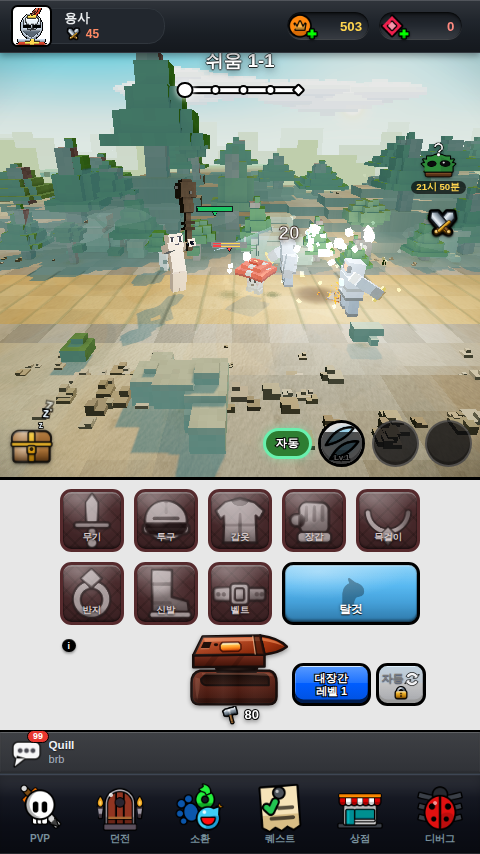
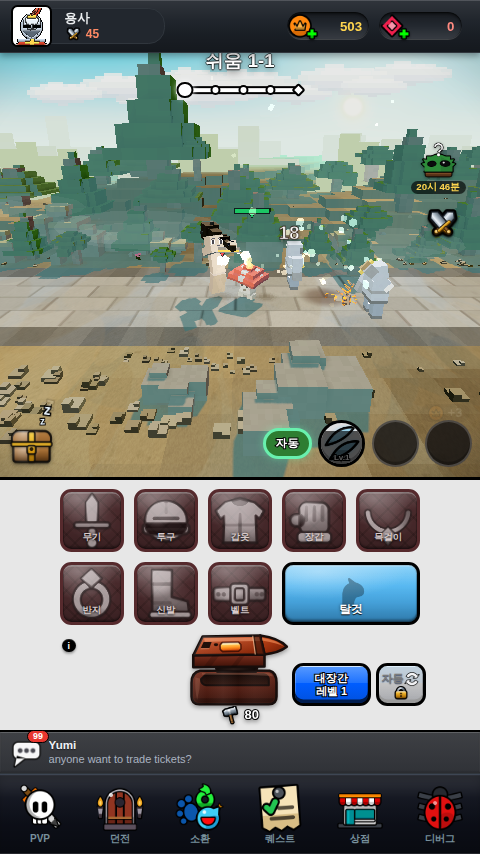
도로 2차 — 회색 석재 포석으로 전환, 대비 8.7% → 25.3%
1차 도로는 반려됐다(메인 세션 캡처 판정): 노면·연석·흙이 전부 같은 밝은 베이지라
'길'이 아니라 '격자무늬 있는 모래밭'으로 읽혔다.

🚨 **1차가 밝은 난색에서 못 벗어난 진짜 이유 — 버텍스 컬러는 곱셈이라 지면색 밖으로 못 나간다.**
   그래서 `terrainShade` 에 `uRoad`(vec3) 유니폼 + 정점 로컬 z varying 을 추가해(cacheKey
   terrain-v1→v2) 회랑 |z|<2.25 안에서만 `목표석재색 ÷ 흙색` 을 곱한다. 목표색은 신설
   `roadOf()` 가 흙색 파생 무채(채도 ≤0.06, 명도 +0.235)로 만든다.
   ⚠ 월드 z 를 `vUv.y*60-45` 로 뽑으려다 실패했다 — r128 의 vUv 는 uvTransform(지면 텍스처
   repeat 12×6)을 이미 먹은 값이라 −45~315 를 훑는다. varying 으로 교체.

⚠ **'어두운 다짐 흙' 안은 실측으로 기각했다.** 대비는 나왔지만(휘도비 0.744) probe-hero-value
   델타가 32.2 → 4.0 으로 붕괴한다. 구조적 이유다 — 영웅은 z=0 즉 **노면 위**에 서고 그 ROI
   배경 대부분이 노면인데, 영웅 평균 L 이 113~123 이라 노면을 그쪽으로 내리면 영웅이 잠긴다.

 · 체스판(정사각 패리티) → **러닝 본드**(x 2칸 × z 1칸 벽돌, 행마다 반 장 오프셋). PERX/2=20장
   짝수라 x 주기 30 순환에서 톤 교대가 무결하다. 데칼 줄눈도 같은 본드로 다시 그렸다.
 · 연석은 **어두운 화강암 한 줄**로 방향을 뒤집었다. 1차 실패는 방향이 아니라 폭(28%)이었다.
 · '격자가 도로 밖으로 샌다'의 범인은 데칼도 텍스처도 아니라 **흙 셀 지터 0.05** 였다(확대 크롭
   확인). 0.022 로 낮춰 규칙적 격자는 노면 안에서만 보인다.
 · 흙은 목표 **휘도**만 낮췄다(#6c5a41 → #59452a, 휘도 −22.5% / 채도 +44%).

전경의 초록 판때기 정체 = 근경 앵커 바위의 이끼 뚜껑. 이 앵커만 HCAP 0.62 로 눌려 캡 한 층이
넓은 판이 된다 — forest kin 근경 앵커에서만 캡 제거. 같은 뿌리 두 곳도 같이 고쳤다:
stoneMat 씨앗 gC→soilC(초원 바위가 #4c5a40 초록이었다), 블롭 그림자 씨앗 gC→soilC(밝아진
노면 위에서 초록 마름모로 떴다). 데칼 재질색도 초원에서 #82ddc1 민트였다(gC ÷ 캔버스 오커
평균) — 줄눈을 무채로 바꿔 나눗셈 틴트 자체를 제거.

실측(초원 ch1, 화면 픽셀): 노면 Y=170.7 · 연석 Y=121.5 · 흙 Y=136.2
 → 노면/흙 1.253(요구 ≥25% 충족, 1차는 1.087) · 연석/노면 0.712 · 연석/흙 0.892

프로브: pinfo-scene ✅ · terrain-voxel ✅ · nearfield-mass ✅ · wind ✅ · prop-blob ✅
[…]

diff --git a/web/js/scene3d.js b/web/js/scene3d.js
@@ -2218,19 +2218,33 @@ const Scene3D = {
             const az = Math.abs(z);
             if (az < 2.25) {
                 const jr = Voxel.jitter(px, 0, iz, 0.035);   // 색 지터는 아주 약하게 — 단조로움만 피한다
-                // 연석 — **밝은 돌/어두운 돌을 한 칸씩 번갈아 놓은 석재 테두리**.
-                //    ⚠ 단색으로 두 번 시도해서 둘 다 실패했다(실측 캡처):
-                //      · 밝은 단색(1.26) → 밝은 노면과 붙어 경계가 안 선다.
-                //      · 어두운 단색(0.82) → 도랑/그림자 띠로 읽힌다(연석이 아니라 '어두운 줄').
-                //    번갈아 놓으면 그 자체가 **사람이 깐 물건**이라는 신호라, 두 오독을 다 피한다.
-                //    한색 캐스트(g×1.02·b×1.07)로 웜 노면과 재료가 갈린다.
+                // 🛣 **이 회랑의 색은 여기서 안 정한다.** 셰이더의 `uRoad` 가 |z|<2.25 를 통째로
+                //    무채 석재로 옮기므로(위 terrainShade 주석), 여기 값들은 **그 석재색 위의
+                //    상대 변주**다 — 평균이 1.0 근처여야 목표 석재색이 그대로 나온다.
+                //
+                // 연석 — **어두운 화강암 한 줄** (반려 사유 ⓓ *"연석이 안 보인다 … 회색 얼룩 띠"*).
+                //    1차는 1.14/0.86 (28% 폭) 교대라 화면에서 '얼룩'으로 흩어졌다. 노면이 밝은
+                //    회석재가 된 지금, 연석까지 밝게 두면 노면과 붙는다 — 반대로 **눌러서** 밝은
+                //    노면과 난색 흙 사이에 어두운 선을 하나 긋는다. 교대 폭은 ±5% 로 좁혀 '얼룩'이
+                //    아니라 **한 줄**로 읽히게 한다(1차의 실패는 방향이 아니라 폭이었다).
+                //    ⚠ 옛 주석의 "어두운 단색 = 도랑으로 읽힌다"는 **난색 노면·난색 흙** 시절 판정이다.
+                //       무채 석재 사이의 어두운 무채 줄은 도랑이 아니라 경계석으로 읽힌다(캡처 확인).
                 if (az >= 1.5) {
-                    const kb = ((px + iz) & 1) ? 1.14 : 0.86;
-                    return [kb * jr, kb * 1.02 * jr, kb * 1.07 * jr];
+                    const kb = ((px + iz) & 1) ? 0.46 : 0.41;
+                    return [kb * jr, kb * jr, kb * 1.02 * jr];
                 }
-                // 포석 — 축정렬 셀 패리티로 두 톤을 번갈아 놓는다(마크 블록 도로 = 칸 색 변화가 곧 무늬).
-                const pv = ((px + iz) & 1) ? 1.50 : 1.32;
-                return [pv * jr, pv * 0.80 * jr, pv * 0.49 * jr];
+                // 포석 — **가로로 긴 벽돌쌓기(러닝 본드)** (반려 사유 ⓒ *"격자 칸이 너무 크고
+                //    체스판처럼 대칭"*). 1차의 `(px+iz)&1` 정사각 패리티는 0.75 유닛 체스판이라
+                //    '타일 깔린 실내 바닥'으로 읽혔다. 도로의 결은 **진행 방향(x)** 으로 흘러야 한다:
+                //      · 포석 한 장 = x 2칸(1.5) × z 1칸(0.75) — 2:1 가로 장방형
+                //      · 행(iz)마다 반 장(=1칸)씩 어긋난다 → 세로 이음선이 통으로 안 이어진다
+                //    🚨 x 주기 정합: PERX(40)/2 = 20 장이라 **장 수가 짝수** → 순환 경계에서 톤
+                //       교대가 그대로 이어진다. 홀수 길이 포석(3칸 등)을 쓰면 40 이 안 나눠져
+                //       ground.position.x += 30 하는 순간 이음매가 드러난다.
+                const brick = (px + (iz & 1)) >> 1;             // 행 오프셋 1칸 = 반 장
+                const bv = (brick & 1) ? 1.07 : 0.93;
+                const row = (iz & 1) ? 1.02 : 0.98;             // 결이 x 로 흐르게 하는 행 단위 미세차
+                return [bv * row * jr, bv * row * jr, bv * row * 1.01 * jr];
             }
             const n = Math.sin(x * P + z * 0.34 + 1.3) * 0.62
                 + Math.sin(x * P * 2 + 4.1 - z * 0.21) * 0.38;
@@ -2246,7 +2260,13 @@ const Scene3D = {
                 const k = smooth(U.clamp((-n - 0.16) / 0.5, 0, 1)) * 0.38;
                 r = 1 - k * 0.85; g = 1 - k; b = 1 - k * 1.2;
             }
-            const j = Voxel.jitter(px, 0, iz, 0.05);
+            // 🛣 셀 지터 0.05 → **0.022** (road-readability) — 반려 사유 ⓑ *"포석 격자가 도로
+            //    밖까지 퍼져 보인다"* 의 실체가 이것이었다. 데칼(z ±2.35)은 전경(z 3~15)까지
+            //    못 가고, 지면 텍스처 반복은 5유닛이라 셀 격자가 아니다. 남는 범인은 **셀마다
+            //    ±5% 씩 튀는 이 지터**뿐이다 — 흙 위에 0.75 유닛 체크무늬를 그려 도로 무늬가 밖으로
+            //    새 보이게 만들었다(확대 크롭으로 확인). 절반 이하로 줄이면 '흙의 얼룩'으로만 남고
+            //    규칙적 격자는 노면 안에서만 보인다.
+            const j = Voxel.jitter(px, 0, iz, 0.022);
             return [r * j, g * j, b * j];
         };
         const pos = [], nor = [], uvs = [], col = [];
@@ -2330,18 +2350,33 @@ const Scene3D = {
             // 🛣 **유기적 다짐길 얼룩 → 포석 이음새** (background-grass-road-cleanup, 사용자 지시
             //    2026-08-21 *"도로 깔끔하게 도로처럼"*). 종전엔 랜덤 블롭 300 + 긁힘 52 + 잔자갈 60 을
             //    뿌려 일부러 흐트러뜨렸다("직선 밴드 = 아스팔트 고속도로"라는 옛 판단). 이제 노면은
-            //    `cellRGB` 의 포석 패리티가 직접 칠하므로, 데칼은 **블록 사이 이음새**만 얹는다.
-            // 🚨 **이음새 간격 25.6px 는 임의값이 아니다.** 데칼은 x −30..30 에 `repeat.set(2,1)` 이므로
+            //    `cellRGB`(+`uRoad`)가 직접 칠하므로, 데칼은 **포석 사이 줄눈**만 얹는다.
+            // 🚨 **줄눈 간격은 임의값이 아니다.** 데칼은 x −30..30 에 `repeat.set(2,1)` 이므로
             //    1반복 = 월드 30 = 1024px → 34.1333px/유닛. 지면 셀 한 칸 0.75유닛 = **정확히 25.6px**
-            //    이고 캔버스 x=0 이 월드 x=−30(=셀 경계)에 떨어진다. 40줄이 1024px 를 정확히 나누므로
-            //    반복 이음매도 없다. 이 수를 바꾸면 이음새가 3D 셀 경계에서 어긋나 '이중 격자'가 된다.
-            for (let k = 0; k < 40; k++) {
-                const x = k * 25.6;
-                ctx.strokeStyle = `rgba(72,54,36,${(0.15 + Math.random() * 0.1).toFixed(3)})`;
-                ctx.lineWidth = 1.8 + Math.random() * 1.0;
+            //    이고 캔버스 x=0 이 월드 x=−30(=셀 경계)에 떨어진다. 이 수에서 벗어나면 줄눈이 3D 셀
+            //    경계에서 어긋나 '이중 격자'가 된다.
+            // 🛣 **러닝 본드 줄눈** (road-readability, 반려 사유 ⓒ) — 1차는 세로선 40줄뿐이라
+            //    가로 줄눈이 없어 '세로로 그은 금'이었다. 포석은 네 변이 다 닫혀야 장(張)으로 읽힌다.
+            //    🚨 캔버스 y ↔ 월드 z 환산: 코어 밴드 y 46~210(164px)이 노면 폭 3.0 유닛이므로
+            //       **54.667px/유닛**, 지면 셀 0.75유닛 = **41.0px**. 행 경계는 y 46/87/128/169/210
+            //       이고 이 넷이 `cellRGB` 의 iz 행(중심 z −1.125/−0.375/0.375/1.125)과 정확히 맞는다.
+            //    🚨 세로 줄눈 간격 51.2px = 포석 한 장(x 2칸 = 1.5유닛). 1024/51.2 = 20 (정수)라
+            //       repeat(2,1) 이음매가 없다. 행 오프셋 25.6px = 반 장 — `cellRGB` 의 `(iz & 1)`
+            //       오프셋과 **같은 방향·같은 양**이어야 색 경계와 줄눈이 겹친다(어긋나면 이중 격자).
+            const ROW = [46, 87, 128, 169, 210];
+            const line = (x0, y0, x1, y1, a) => {
+                ctx.strokeStyle = `rgba(38,32,26,${a.toFixed(3)})`;
+                ctx.lineWidth = 1.6 + Math.random() * 0.9;
                 for (const ox of [0, -1024, 1024]) {   // 경계에 걸친 줄은 반대편에도 (이음매 없는 반복)
-                    ctx.beginPath(); ctx.moveTo(x + ox, 30); ctx.lineTo(x + ox, 226); ctx.stroke();
+                    ctx.beginPath(); ctx.moveTo(x0 + ox, y0); ctx.lineTo(x1 + ox, y1); ctx.stroke();
                 }
+            };
+            for (let r = 0; r < 4; r++) {
+                // iz 행 인덱스의 홀짝 = 캔버스 행 r 의 홀짝 (z 중심 −1.125 인 행이 iz=58, 짝수)
+                const off = (r & 1) ? 25.6 : 0;
+                const yA = ROW[r], yB = ROW[r + 1];
+                for (let k = 0; k < 20; k++) line(off + k * 51.2, yA, off + k * 51.2, yB, 0.30 + Math.random() * 0.12);
+                if (r > 0) line(0, yA, 1024, yA, 0.22 + Math.random() * 0.08);   // 가로 줄눈(행 사이)
             }
             // 위아래 페더링 — 잘려 나간 칠을 지워 **캔버스 상·하단 알파를 정확히 0으로** 만든다.
             // 이것이 없으면 평면 모서리가 그대로 직선으로 보인다(위 주석 참조).
@@ -2786,6 +2821,13 @@ const Scene3D = {
                 lava: (s) => this.makeVolcanicRock(s * 1.05),
                 magic: (s) => this.makeCrystal(s * 1.05),   // 크리스탈은 뾰족·가늘어 같은 s 로도 발자국이 작다 — 키워서 캡으로 눕힌다
                 snow: (s) => this.makeBoulder(s * 0.95, true),
+                // 🪨 forest kin 근경 앵커의 **이끼 뚜껑 제거** (road-readability, 반려 사유 ⓕ
+                //    *"전경 좌측·중앙에 납작한 초록 슬래브가 흙 위에 떠 보인다"*). 레이캐스트·재질
+                //    마킹으로 정체를 확정했다: `stoneMat` 바위 + `mossMat` 캡이다. `capLayer` 는
+                //    **윗면 한 층을 통째로** 덮는데, 이 앵커만 HCAP 0.62 로 눌러 눕히므로 그 한 층이
+                //    화면에서 넓은 판이 된다 — 다른 바위(중경·원경)는 안 눌려서 같은 캡이 '테두리'로만
+                //    보인다. 그래서 조형을 바꾸지 않고 **눌리는 개체에서만** 캡을 뗀다.
+                forest: (s) => this.makeBoulder(s * 0.85, false, false),
             }[kin] || ((s) => this.makeBoulder(s * 0.85, false, true));
             // 🚨 **배치 요를 90° 로 스냅한 만큼 치수를 되돌려 준다 (2026-08-20).** 임의 각으로 놓인
             //   상자는 대각을 보여 화면 폭이 최대 √2 배였다 — 4방위로 스냅하면 그 여유가 사라져
@@ -3047,9 +3089,25 @@ const Scene3D = {
             sh.uniforms.uLodNear = { value: cfg.lodNear };
             sh.uniforms.uLodFar = { value: cfg.lodFar };
             sh.uniforms.uSnow = { value: cfg.snow };
+            // 🛣 노면 회랑 **절대색 보정** (road-readability 2026-08-21) — 반려 사유 ⓐ 의 뿌리는
+            //    "버텍스 컬러는 **곱셈**이라 지면색을 못 벗어난다"였다. 난색 흙 위에 아무리 배수를
+            //    걸어도 결국 더 밝거나 더 어두운 **같은 난색**이라 '재질이 다른 물건'이 못 된다.
+            //    `uRoad` = (목표 석재색 / 흙색) 을 setTheme 이 챕터마다 계산해 넣는다 — 회랑 안에서만
+            //    곱해지므로 화면에서는 **무채 석재**가 되고, 값 자체는 지면색 파생이라 규약도 지킨다.
+            //    🚨 마스크 기준은 **정점 로컬 z**(varying `vRoadZ`)다. 지면은 x 로만 순환하므로
+            //       (ground.position.z 는 항상 0) 회랑이 절대 흔들리지 않는다. 경계 ±2.25 는 셀
+            //       경계에 정확히 떨어지는 수라 톱니도 없다.
+            sh.uniforms.uRoad = { value: cfg.road || (cfg.road = new THREE.Vector3(1, 1, 1)) };
             this._terrainU = sh.uniforms;   // 재컴파일마다 새로 생기므로 참조를 갱신해 둔다
+            // 🚨 **월드 z 는 `vUv` 로 못 뽑는다 — 여기서 한 번 헛발을 디뎠다(실측).** three r128 의
+            //    `vUv` 는 `uvTransform` 을 이미 먹은 값이라 지면 텍스처 repeat(12×6) 만큼 **6배로
+            //    늘어나 있다** — `vUv.y*60-45` 는 −45 에서 315 까지 훑어 회랑 판정이 통째로 빗나갔다
+            //    (uRoad 를 순청색으로 넣어도 화면이 안 변하는 것으로 확인). 정점에서 **로컬 z** 를
+            //    그대로 실어 보낸다: `ground` 는 회전·스케일이 없고 z 로 안 움직이므로 로컬 z = 월드 z 다.
+            sh.vertexShader = 'varying float vRoadZ;\n' + sh.vertexShader
+                .replace('#include <begin_vertex>', '#include <begin_vertex>\n\tvRoadZ = position.z;');
             sh.fragmentShader = 'uniform float uMacro;\nuniform float uMacroScale;\nuniform float uLod;\n'
-                + 'uniform float uLodNear;\nuniform float uLodFar;\nuniform float uSnow;\n'
+                + 'uniform float uLodNear;\nuniform float uLodFar;\nuniform float uSnow;\nuniform vec3 uRoad;\nvarying float vRoadZ;\n'
                 + sh.fragmentShader
                     .replace('#include <map_fragment>', [
                         '#ifdef USE_MAP',
@@ -3062,6 +3120,9 @@ const Scene3D = {
                         '\ttexelColor.rgb = mix( texelColor.rgb, tMac.rgb,',
                         '\t\tsmoothstep( uLodNear, uLodFar, length( vViewPosition ) ) * uLod );',
                         '\tdiffuseColor *= texelColor;',
+                        // ⓓ 노면 회랑(|z| < 2.25)만 석재색으로 — 위 uRoad 주석 참조
+                        '\tfloat rdz = abs( vRoadZ );',
+                        '\tdiffuseColor.rgb *= mix( uRoad, vec3( 1.0 ), step( 2.25, rdz ) );',
                         '#endif',
                     ].join('\n'))
                     .replace('#include <envmap_fragment>', [
@@ -3077,7 +3138,7 @@ const Scene3D = {
                         '\t}',
                     ].join('\n'));
         };
-        mat.customProgramCacheKey = () => 'terrain-v1';
+        mat.customProgramCacheKey = () => 'terrain-v2';
         return mat;
     },
 
@@ -16774,7 +16835,14 @@ const Scene3D = {
         //    바닥색이 전부 gC 에서 파생한다. 갈색으로 밀면 `leafColor` 가 **초원의 나무를 통째로
         //    갈색**으로 만든다(그건 단풍 챕터다). 그래서 `soilOf` 는 `terrainMat` 한 곳에만 먹인다 —
         //    원경 능선은 초록으로 남아 '멀리 숲, 발밑은 흙'으로 읽혀 오히려 맞다.
-        this.terrainMat.color.copy(this.soilOf(gC, t.biome || 'forest'));
+        const soilC = this.soilOf(gC, t.biome || 'forest');
+        this.terrainMat.color.copy(soilC);
+        // 🛣 노면 회랑의 석재색 → 셰이더 유니폼 (road-readability, 반려 사유 ⓐ).
+        //    버텍스 컬러는 곱셈이라 지면색 밖으로 못 나간다 → **목표색 ÷ 흙색**을 넘겨 회랑 안에서만
+        //    곱하게 한다(terrainShade 주석). 0 나눗셈 방지 하한 0.02 는 검은 지면 챕터용이다.
+        const roadC = this.roadOf(soilC);
+        this.setTerrainUniform('road', (this.TERRAIN.road || new THREE.Vector3(1, 1, 1)).set(
+            roadC.r / Math.max(soilC.r, 0.02), roadC.g / Math.max(soilC.g, 0.02), roadC.b / Math.max(soilC.b, 0.02)));
         // 눈 수광면 탈색은 **눈 kin 에서만** 켠다(㉱). 18 빙하는 kin 이 snow 지만 '청빙'이 정체성이라
         // 테마 지면 채도가 0.49 + tint +0.16 로 의도적으로 높다 — 여기서 탈색하면 그 바이옴이 사라진다.
         // ⚠ **테마 지면의 채도로는 못 가른다** — 6 설원 0xaac2e2 와 18 빙하 0x9fc9de 는 채도가
@@ -16860,7 +16928,7 @@ const Scene3D = {
             //    흙 지면색을 씨앗으로 쓰면 초원 이끼가 h .28 순초록 → h .145(52° 올리브 브라운)로
             //    내려가 '바위에 낀 이끼'로만 남는다. 잔디를 안 지운 바이옴은 `soilOf` 가 gC 를 그대로
             //    돌려주므로 **한 픽셀도 안 바뀐다**(설원·사막·용암·마법·바위).
-            const mg = this.soilOf(gC, t.biome || 'forest').getHSL({ h: 0, s: 0, l: 0 });
+            const mg = soilC.getHSL({ h: 0, s: 0, l: 0 });   // = soilOf(gC) — 위에서 이미 뜬 값
             // 🎨 초록 견인에 상한 ±0.05 (map-palette-unify 2차) — 종전 '0.36 쪽으로 35%' 비례 견인은
             //    난색 지면 챕터에서 과도했다: 단풍(지면 h≈0.07)의 이끼가 h 0.17(61° 올리브초록)로
             //    앰버 화면의 보색 이물이 됐다(2차 채점 A #1 '순색 초록 새싹'). 상한을 걸면 단풍 이끼는
@@ -16877,7 +16945,11 @@ const Scene3D = {
         // 실그림자 이중 노출·'부유 스티커'·초원 하이키 사이에서 실측으로 잡은 값들이다(ensureBlobRes 주석).
         this.ensureBlobRes();
         {
-            const bs = gC.getHSL({ h: 0, s: 0, l: 0 });
+            // 🌾 씨앗을 gC → **soilOf(gC)** 로 (road-readability). gC(초록) 파생이라 블롭이 짙은
+            //    초록이었는데, 노면이 밝은 무채 석재가 된 뒤로는 그 초록 마름모가 도로 위에 **초록
+            //    스티커**로 떠 보였다(확대 크롭 확인 — mossMat·stoneMat 과 같은 뿌리의 마지막 한 곳).
+            //    흙색을 씨앗으로 쓰면 난색 다크로 내려가 흙·석재 어디에서도 '그림자'로 읽힌다.
+            const bs = soilC.getHSL({ h: 0, s: 0, l: 0 });
             const shade = new THREE.Color().setHSL(bs.h, Math.min(0.5, bs.s * 0.6 + 0.1), 0.10);
             this.blobShadowMat.color.copy(shade);
             this.blobShadowFlyMat.color.copy(shade);
@@ -16885,31 +16957,19 @@ const Scene3D = {
         }
         this.hemi.color.setHex(t.sky);
         this.hemi.groundColor.copy(gC.clone().offsetHSL(0, 0, -0.1));
-        // 흙길 데칼을 바이옴 흙색으로 (map-quality-up, 비평가 2인 공통 1위 지적) — 데칼 캔버스는
-        // 고정 황토 톤이라, 마법(보라)·설원(청야)·용암(암갈) 같은 유색 바이옴에서 "씬 색과 무관한
-        // 회베이지 가로 띠 = 오버레이 버그"로 읽혔다. 재질 곱셈 틴트로 색상만 바이옴 지면 팔레트
-        // (gC 색상·채도)로 끌어오고 명도 결(다짐 자국·자갈)은 텍스처가 그대로 쥔다. 초원·사막처럼
-        // 원래 흙색과 가까운 바이옴은 틴트가 거의 백색이라 종전 그림을 해치지 않는다.
+        // 도로 줄눈 데칼의 재질색 (map-quality-up 비평가 2인 공통 1위 지적의 자리다 — 고정 황토
+        // 캔버스가 마법·설원·용암에서 "씬 색과 무관한 회베이지 가로 띠"로 읽혔다. 그래서 재질색을
+        // 챕터 팔레트에서 파생시킨다는 원칙만은 그대로 지킨다).
         if (this.pathMesh) {
-            const g = gC.getHSL({ h: 0, s: 0, l: 0 });
-            // 🎨 틴트 명도를 지면 등급색에 따라간다 (map-palette-unify) — 종전 L 0.7 고정은 어두운
-            //    챕터(흑요석 gC L≈0.06·심연·종말)에서 흙길만 밝은 베이지 띠로 떠, 챕터 무관한
-            //    '오버레이 밴드'로 읽혔다(팔레트 실측: ch22 유채색 무게의 33% 가 챕터 색상 밖 35° 웜).
-            //    지면보다 +0.22 밝은 자리(하한 0.30)에 앉혀 '같은 땅의 다져진 길'로 — 밝은 챕터
-            //    (사막 등)는 상한 0.7 이 종전 값 그대로라 기존 그림을 해치지 않는다.
-            const bTint = new THREE.Color().setHSL(g.h, U.clamp(g.s * 0.7, 0, 0.5), U.clamp(g.l + 0.22, 0.30, 0.7));
-            // 🎨 곱셈 틴트 → **나눗셈 틴트** (map-palette-unify 4차). 3차 채점 A 가 뿌리를 픽셀로 박았다:
-            //    "곱셈으로는 색상이 캔버스(오커 hue 37°) 너머로 못 넘어간다" — 견인을 0.80 까지 올려도
-            //    한색 챕터(ch3 바위산·ch4 폭풍·ch14 소금)의 길만 웜 원색으로 남았다(ch6/7/8/18/20 은
-            //    지면 자체가 유채라 통과). 캔버스 평균 방향 (1.0, 0.74, 0.49)로 **나눠서** 화면 평균이
-            //    정확히 bTint 색상에 앉게 한다. 몫이 1을 넘으면 전체를 최대값으로 내려 클리핑 없이
-            //    비율을 보존한다(그만큼 어두워지지만 '다져진 흙'은 어두워도 성립 — 결은 텍스처가 쥔다).
-            this.pathMesh.material.color.setRGB(bTint.r / 1.0, bTint.g / 0.74, bTint.b / 0.49);
-            {
-                const pm = this.pathMesh.material.color;
-                const mx = Math.max(pm.r, pm.g, pm.b, 1);
-                pm.multiplyScalar(1 / mx);
-            }
+            // 🛣 틴트 씨앗을 gC → **노면 석재색(roadC)** 으로 (road-readability 2026-08-21).
+            //    ⚠ 종전 나눗셈 틴트는 초원에서 재질색을 **#82ddc1(민트)** 로 만들었다(실측) —
+            //       gC(초록) 을 캔버스 평균 오커 (1.0,0.74,0.49) 로 나눈 몫이라 b 가 2배로 뛴 것이다.
+            //       줄눈 알파가 낮아 화면에서는 안 보였지만, 캔버스가 진해지면 그대로 초록 띠가 된다.
+            //    이제 캔버스 줄눈은 **무채 먹색 rgba(38,32,26)** 이라 나눠서 색상을 끌 이유가 없다.
+            //    석재색을 최대 성분 1 로 정규화해 물리면 줄눈이 '그 도로의 어두운 이음새'가 된다 —
+            //    색상은 챕터 지면 파생이라 map-palette-unify 가 잡은 '챕터 무관 베이지 띠'도 안 돌아온다.
+            const pm = this.pathMesh.material.color.copy(roadC);
+            pm.multiplyScalar(1 / Math.max(pm.r, pm.g, pm.b, 0.001));
         }
         // 바이옴 소품 교체 (같은 바이옴이면 그대로 유지)
         const biome = t.biome || 'forest';
@@ -16986,7 +17046,11 @@ const Scene3D = {
         //    얼음빛 바위'와 같은 뿌리인데, fallback 을 쓰는 kin 셋은 leak 수리 때도 그대로 남았었다).
         this.stoneMat.color.copy(sp.stone !== undefined ? new THREE.Color(sp.stone) :
             kin === 'snow' ? new THREE.Color(0xc9d8e6) : kin === 'desert' ? new THREE.Color(0xb97f5e) :
-            kin === 'rock' ? new THREE.Color(0x51483e) : this.stoneFrom(gC));
+            // 🪨 씨앗을 gC → **soilOf(gC)** 로 (road-readability, 반려 사유 ⓕ). 잔디를 걷어낸 뒤에도
+            //    forest kin 의 돌은 gC(라임 초록) 파생이라 **#4c5a40 초록 바위**였다(실측) — 흙바닥
+            //    위에 초록 덩어리가 서 있으니 근경이 통째로 '풀밭 바위'로 읽혔다. 흙색을 물려주면
+            //    '그 땅에서 솟은 돌'이 된다. 잔디가 없던 바이옴은 soilOf 가 gC 를 그대로 돌려준다.
+            kin === 'rock' ? new THREE.Color(0x51483e) : this.stoneFrom(soilC));
         // 🎨 2차 식생(꽃 줄기·양치)의 고정 초록 → 잎 파생색 (map-palette-unify 4차) — 0x4a7332/0x3d6b2a
         //    고정색은 단풍(앰버) 화면에 '봄 잔디 다발'로 남는 마지막 순초록이었다(3차 채점 A ⑵,
         //    hue 85–96°·채도 0.47–0.78 픽셀 실측과 두 재질 값이 일치). 덤불과 같은 잎 파생(lf.bush)을
@@ -17217,13 +17281,22 @@ const Scene3D = {
     //    `probe-hero-value` 의 '영웅 ↔ 배경 명도 델타'가 48.7 → 27.1 로 무너져 **영웅이 배경에
     //    녹았다**(비평가 처방 ≥45). 색상만 옮기고 밝기는 그대로 두는 게 맞다 — `l` 을 1.10~1.22 배
     //    올려 휘도를 맞춘다(이분 탐색 24회, `setTheme` 당 1회라 비용은 무시할 수준).
+    // 🟤 **휘도 계수 0.82 · 채도 0.80 (road-readability 2026-08-21)** — 반려 사유 ⓔ
+    //    *"흙바닥이 너무 밝고 하얗다. 초원 챕터가 해변처럼 보인다."* 1차는 휘도를 **그대로** 보존해
+    //    (계수 1.0) 초록의 높은 휘도를 갈색이 그대로 물려받았고, 그 결과 h 34° 인데도 화면에서는
+    //    표백된 모래로 읽혔다(캡처 실측: 전경 흙 평균 (206,199,176)). 젖은 흙/황토는 **주변 식생보다
+    //    어둡고 채도가 있다** — 휘도를 18% 내리고 채도 상한을 0.30 → 0.38 로 연다.
+    //    🚨 계수를 여기서만 만지는 이유: `l` 을 직접 내리면 아래 🚨 의 −16% 함정을 다시 밟는다.
+    //       이분 탐색의 **목표 휘도**를 낮추는 것이 유일하게 예측 가능한 손잡이다(A/B 실측 보고).
+    SOIL: { yK: 0.78, satK: 0.90, satMax: 0.42 },
     soilOf(gC, biome) {
         if (this.bkin(biome) !== 'forest') return gC;
         const b = gC.getHSL({ h: 0, s: 0, l: 0 });
         if (b.h < 0.17 || b.h > 0.45) return gC;
-        const sat = Math.min(b.s * 0.62, 0.30);
+        const S = this.SOIL;
+        const sat = Math.min(b.s * S.satK, S.satMax);
         const Y = (c) => c.r * 0.2126 + c.g * 0.7152 + c.b * 0.0722;
-        const target = Y(gC), out = new THREE.Color();
+        const target = Y(gC) * S.yK, out = new THREE.Color();
         let lo = 0, hi = 1;
         for (let i = 0; i < 24; i++) {
             const m = (lo + hi) / 2;
@@ -17231,6 +17304,29 @@ const Scene3D = {
             if (Y(out) < target) lo = m; else hi = m;
         }
         return out.setHSL(0.095, sat, (lo + hi) / 2);
+    },
+    // 🛣 노면 **절대색** — 흙색(soilOf 결과)에서 파생한다(규약: 챕터마다 지면색이 다르므로 절대색
+    //    대비는 다른 챕터에서 사라진다). 두 방향 중 **어두운 다짐 석재** 쪽을 골랐다(반려 사유 ⓐ):
+    //      · 채도를 0.30 배(상한 0.075)로 눌러 **무채 석재**로 — 난색 흙과 재질이 갈린다.
+    //      · 명도는 흙보다 한 단계 아래. 밟혀 다져진 길은 주변보다 어둡고 채도가 낮다.
+    //    🚨 **어두운 챕터에서는 방향을 뒤집는다.** 용암(gC L≈0.07)·심연·종말에서 더 어둡게 내리면
+    //       도로가 통째로 검은 구멍이 된다 — 대비를 만들 여지가 있는 쪽(밝은 석재)으로 간다.
+    roadOf(soil) {
+        const s = soil.getHSL({ h: 0, s: 0, l: 0 });
+        // 🚨 **밝기 방향은 흙보다 어두운 쪽이 아니라 밝은 쪽이다 — 실측으로 뒤집은 결정이다.**
+        //    처음엔 사용자가 준 두 선택지 중 '어두운 다짐 흙' 쪽으로 갔다(노면 albedo −38%). 대비는
+        //    잘 나왔는데(노면/흙 휘도비 0.744) **`probe-hero-value` 의 영웅↔배경 델타가 32.2 → 4.0
+        //    으로 무너졌다**(A/B 실측). 이유가 구조적이다: 영웅은 z=0, 즉 **노면 위에** 서고 그 ROI
+        //    배경의 대부분이 노면이다. 영웅 평균 L 이 113~122 라, 노면을 그쪽으로 내리면 영웅이
+        //    배경에 그대로 잠긴다. 그래서 다른 선택지 — **무채 회석재 포석** — 로 간다: 색상 대비
+        //    (난색 흙 ↔ 무채 석재)와 명도 대비(밝은 쪽)를 같이 벌리면 영웅 델타도 살아난다.
+        //    밝은 지면 챕터(설원 L≈0.78 · 사막 L≈0.61)만 방향을 뒤집는다 — 거기서 더 밝히면
+        //    노면이 흰 띠로 날아가고 하이라이트가 클리핑된다.
+        const l = s.l > 0.55 ? Math.max(0.30, s.l - Math.max(0.12, s.l * 0.28))
+            : Math.min(0.62, s.l + Math.max(0.235, s.l * 0.86));
+        // 채도 상한 0.06 — '무채~한색 회석재'. 색상은 지면에서 물려받되(챕터 파생 규약) 채도를
+        // 거의 0 으로 눌러야 난색 흙과 **재료가 다른 물건**으로 갈린다.
+        return new THREE.Color().setHSL(s.h, Math.min(s.s * 0.24, 0.06), l);
     },
     leafSet(gC, dF) {
         const O = Scene3D.LEAF_OFF;
@@ -17274,7 +17370,7 @@ const Scene3D = {
             c.color.copy(g.foliage[fi]);
             c.emissive.setHex(0x000000); c.emissiveIntensity = 1;   // 마법 챕터의 보라 발광이 묻어오지 않게
         } else if (src === this.bushMat) c.color.copy(g.bush);
-        else if (src === this.stoneMat) c.color.copy(this.stoneFrom(g.ground));  // 초원 돌색 — setTheme 기본 분기와 같은 파생(stoneFrom)
+        else if (src === this.stoneMat) c.color.copy(this.stoneFrom(this.soilOf(g.ground, 'forest')));  // 초원 돌색 — setTheme 기본 분기와 **같은 파생**(soilOf → stoneFrom). 한쪽만 고치면 미니 씬 돌만 초록으로 남는다
         this._pvMats.set(orig, c);
         return c;
     },
